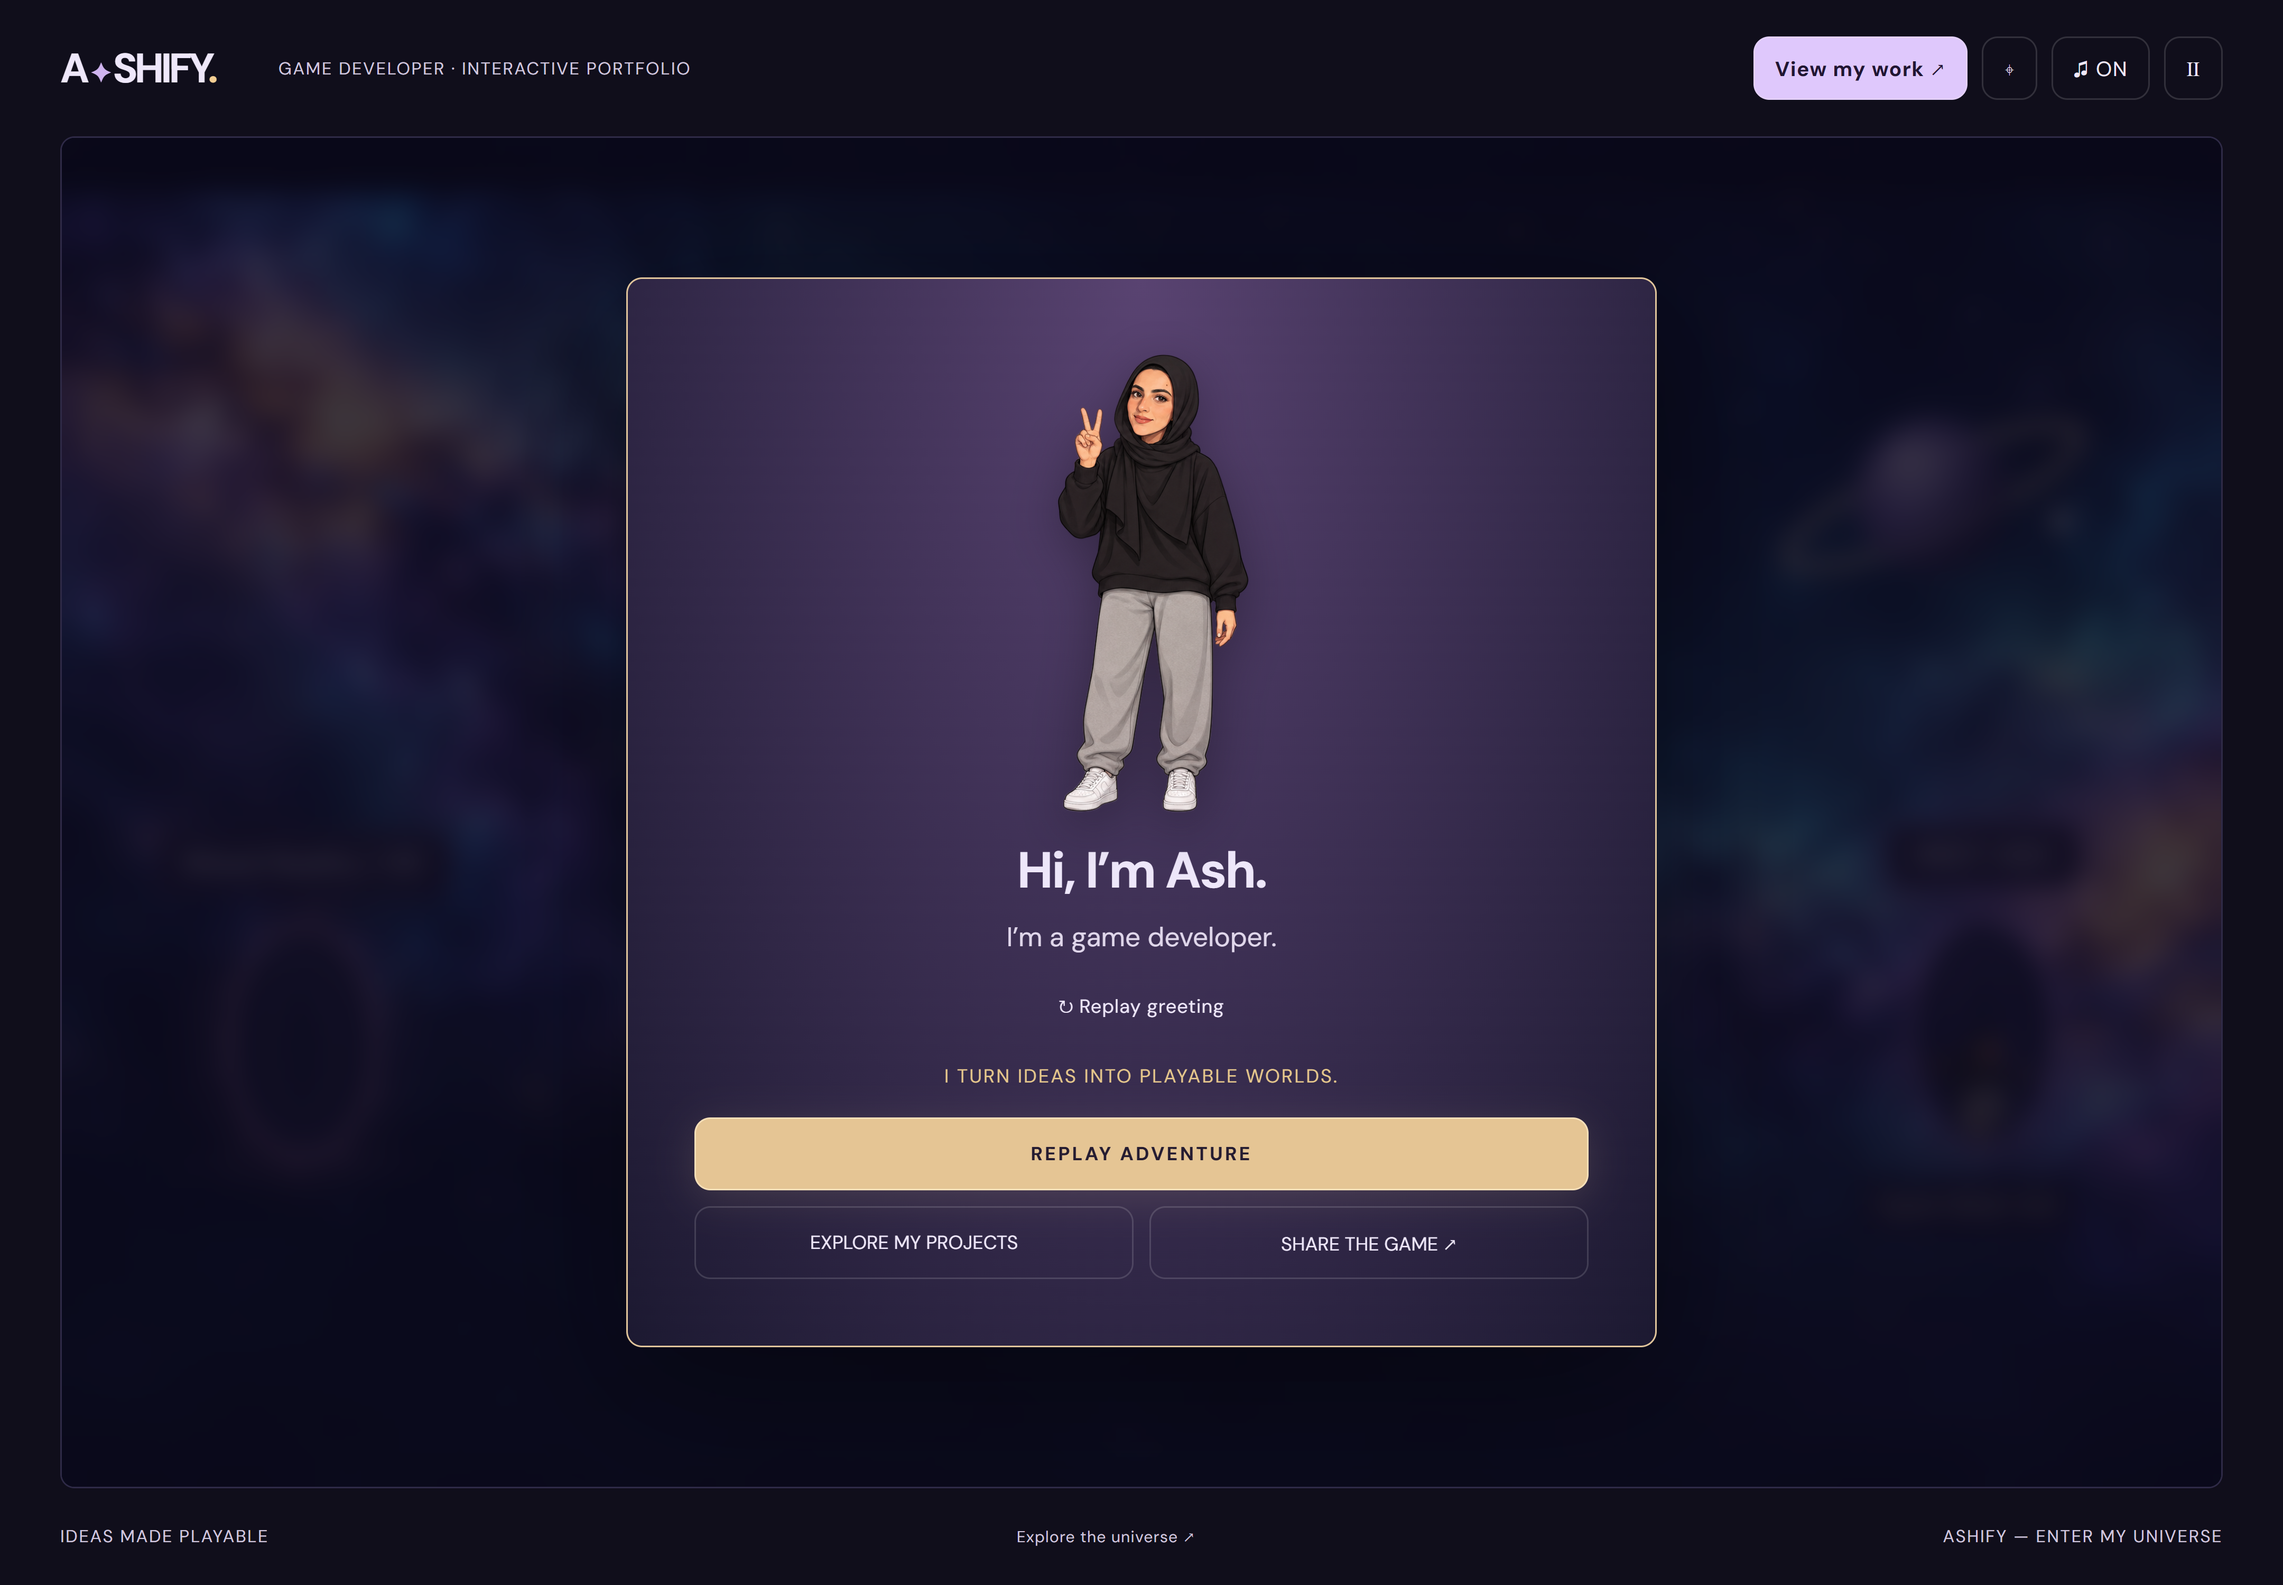
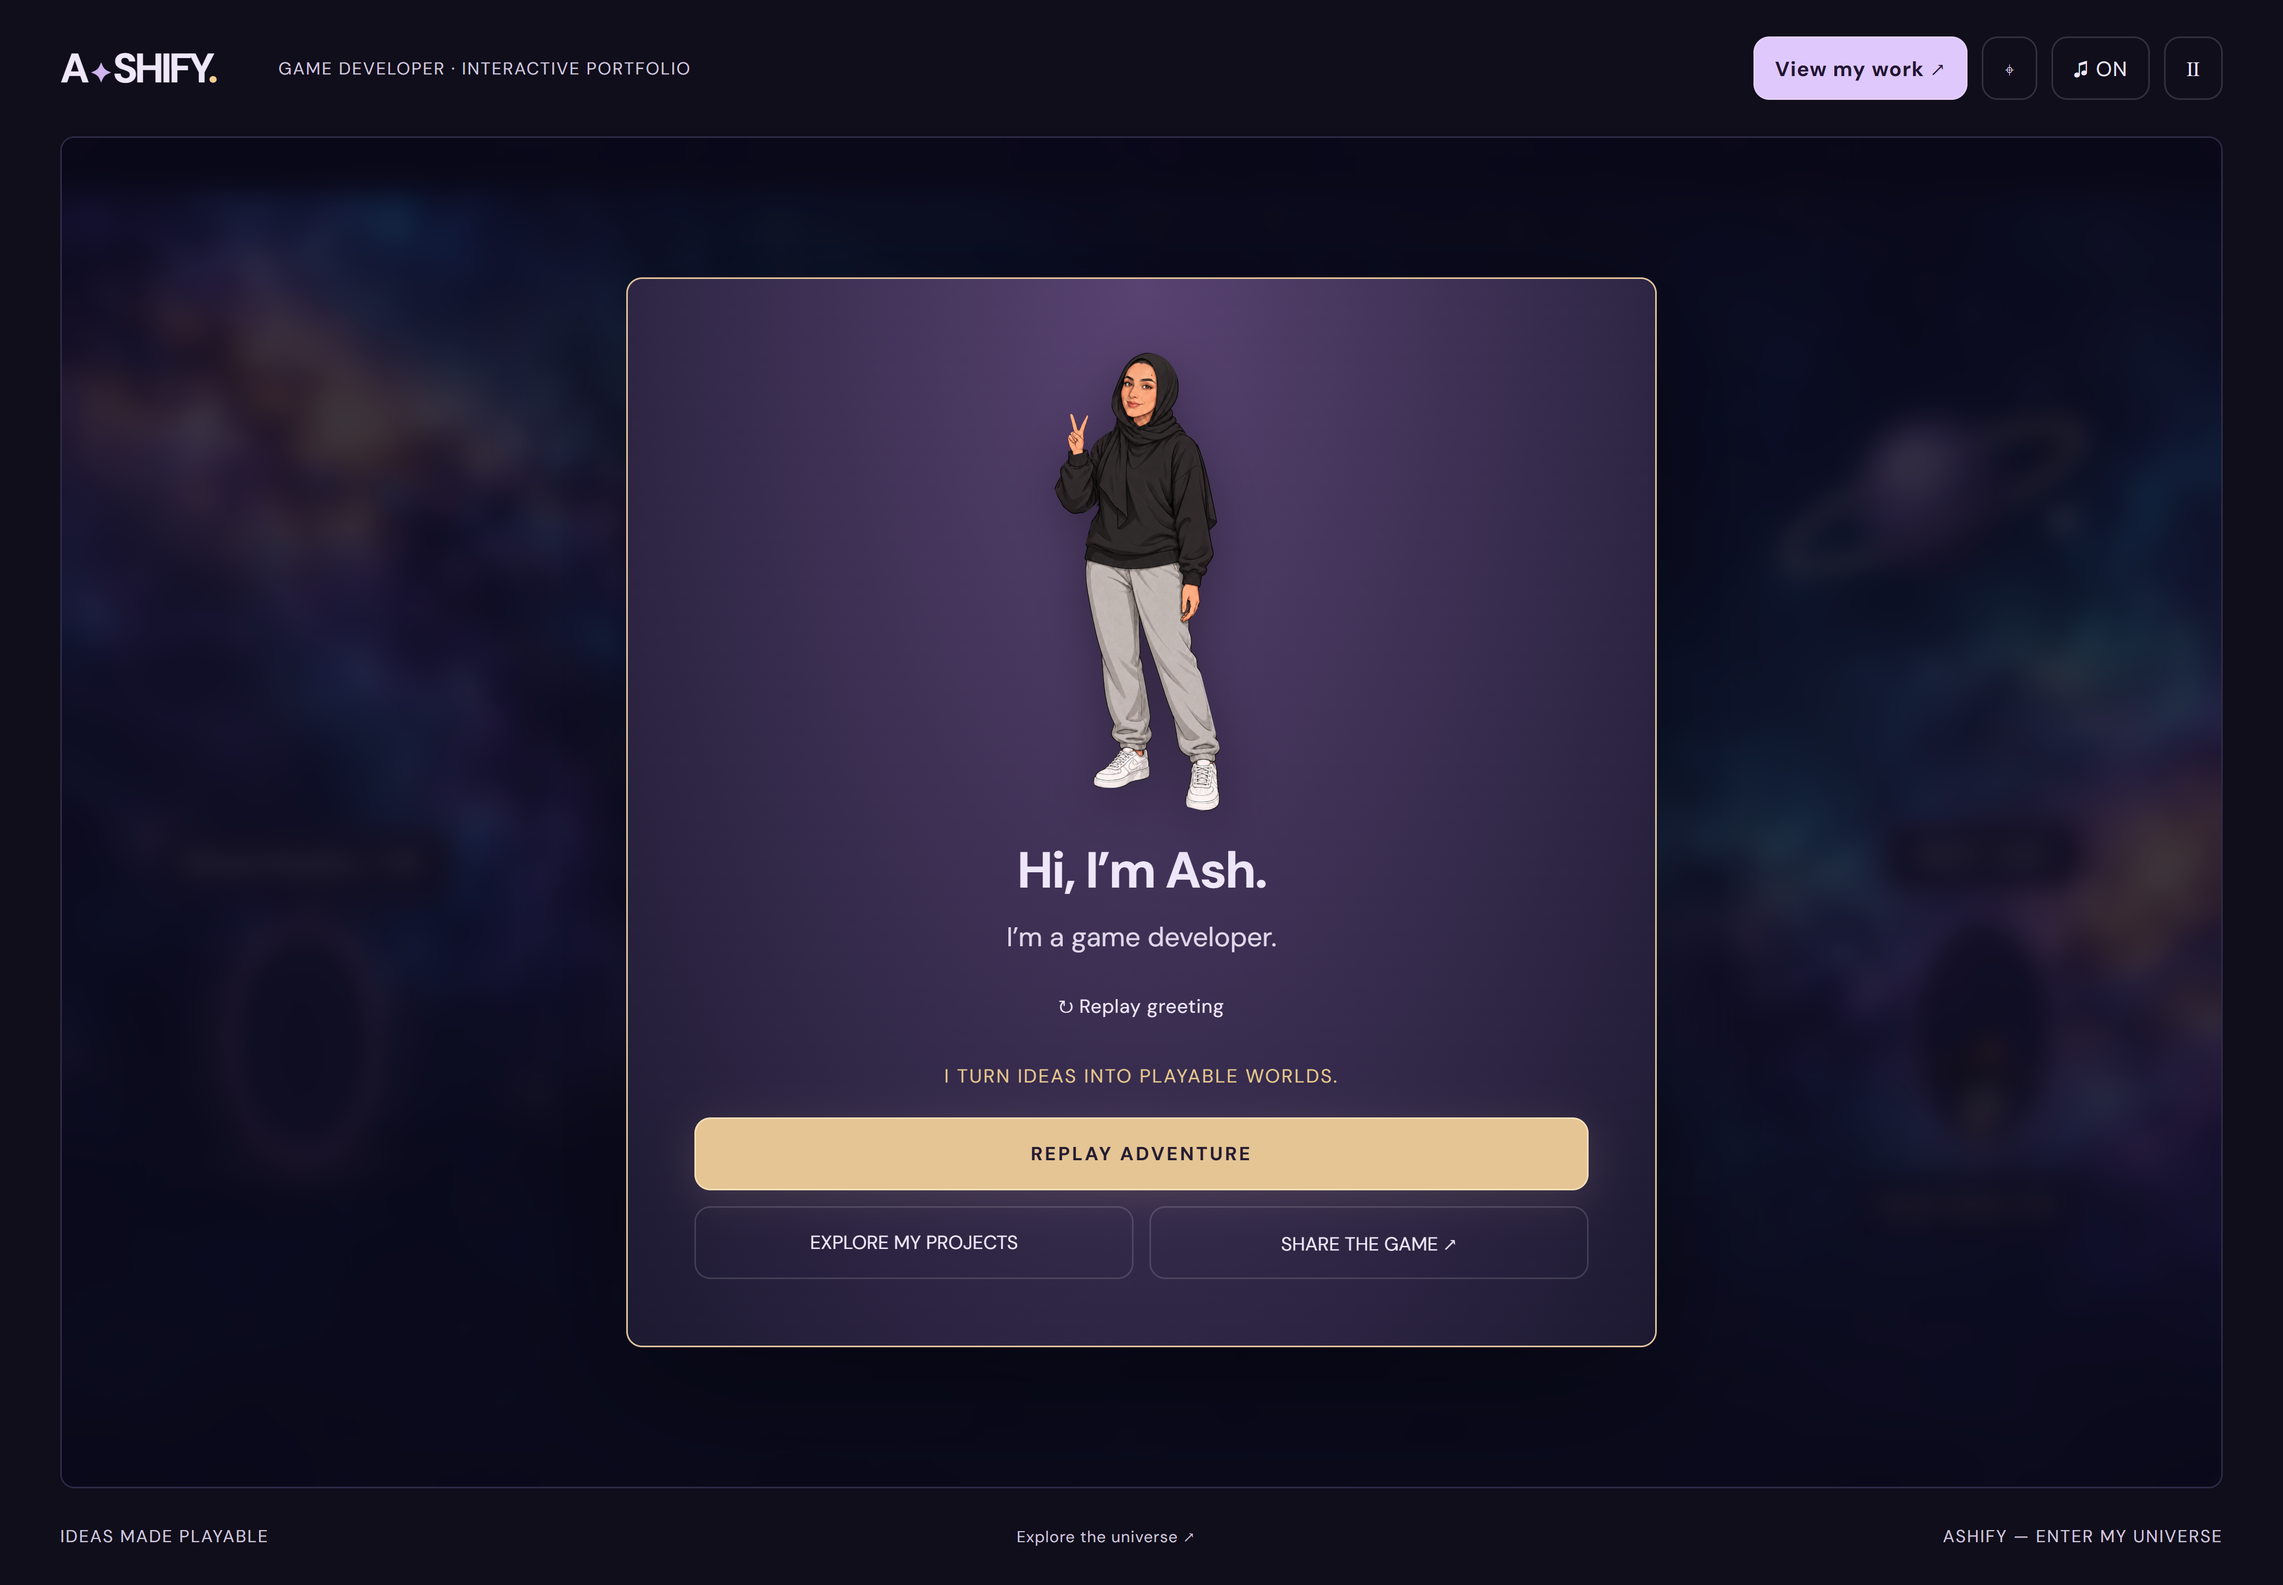
5

Changed region(s): [[0.4688, 0.217, 0.5625, 0.527]]

diff --git a/src/GreetingRig.tsx b/src/GreetingRig.tsx
@@ -1,0 +1,17 @@
+import { assetUrl } from './data/assets';
+export function GreetingRig({ winking }: { winking: boolean }) {
+ const base=assetUrl('assets/character/ash-approved-rig.png');
+ return <svg className="greeting-rig" viewBox="0 0 1024 1536" aria-hidden="true">
+ <defs>
+ <clipPath id="ash-body-cut"><path d="M275 342Q300 328 338 337L345 360Q350 305 420 274L430 250Q401 214 428 128Q449 24 518 23Q619 20 635 139L625 240 660 290Q713 320 730 416L756 569 750 738 702 775 700 838 668 891 681 972 724 1140 768 1316 763 1384Q788 1498 725 1506L660 1490 650 1460 657 1355 631 1309 614 1243 564 1110 545 1010 544 1266 538 1317 539 1391Q472 1439 364 1427L355 1401 376 1368 415 1310 403 1270 371 1120 340 960 330 710 326 664 355 549 376 498Q302 587 249 511L230 459 241 407 275 367Z"/></clipPath>
+ <clipPath id="ash-wave-cut"><path d="M175 261 166 241 142 220 104 146Q98 130 108 130L148 177 124 104Q117 88 128 88L170 156 142 88Q137 72 148 73L190 150 181 86Q180 70 190 73L214 149 222 176 239 138Q249 124 256 131L245 171 231 207 219 241 221 251Z"/></clipPath>
+ <clipPath id="ash-v-cut"><path d="M850 250 851 222 844 191 846 161 828 91Q821 74 832 77L869 144 895 83Q902 64 911 74L894 153Q912 155 916 174L925 190 917 221 897 261Z"/></clipPath>
+ <clipPath id="ash-eye-cut"><ellipse cx="530" cy="134" rx="29" ry="16"/></clipPath>
+ </defs>
+ <image className="rig-body" href={base} width="1024" height="1536" clipPath="url(#ash-body-cut)"/>
+ <g className="rig-wave"><g transform="translate(182 171) scale(.7)"><image href={base} width="1024" height="1536" clipPath="url(#ash-wave-cut)"/></g></g>
+ {/* Mirror only the victory hand around its wrist; keep the sleeve and shoulder fixed. */}
+ <g className="rig-v" transform="translate(919 171) scale(-.7 .7)"><image href={base} width="1024" height="1536" clipPath="url(#ash-v-cut)"/></g>
+ <image className={`ash-wink ${winking?'active':''}`} href={assetUrl('assets/character/ash-approved-rig-wink.png')} width="1024" height="1536" clipPath="url(#ash-eye-cut)"/>
+ </svg>;
+}

diff --git a/src/TalkingAsh.tsx b/src/TalkingAsh.tsx
@@ -1,5 +1,5 @@
 import { useEffect, useState, type CSSProperties } from 'react';
-import { assetUrl } from './data/assets';
+import { GreetingRig } from './GreetingRig';
 const greeting = 'Hi, I’m Ash. I’m a game developer.';
 export function TalkingAsh() {
   const [letters, setLetters] = useState(0),
@@ -22,17 +22,8 @@ export function TalkingAsh() {
         className={`talking-portrait fullbody-portrait ${letters < greeting.length ? 'is-waving' : 'is-victory'}`}
         role="img"
         aria-label="Ash greeting you"
-        style={{
-          backgroundImage: `url(${assetUrl('assets/character/ash-fullbody-greeting.png')})`,
-        }}
       >
-        <div className="talking-body" />
-        <div className="greeting-hand" aria-hidden="true" />
-        <div
-          className={`ash-wink ${winking ? 'active' : ''}`}
-          aria-hidden="true"
-          style={{ backgroundImage: `url(${assetUrl('assets/character/ash-fullbody-greeting.png')})` }}
-        />
+        <div className="talking-body"><GreetingRig winking={winking} /></div>
         {winking && (
           <div className="wink-stars" aria-hidden="true">
             {Array.from({ length: 7 }, (_, i) => (
@@ -62,3 +53,4 @@ export function TalkingAsh() {
     </div>
   );
 }
+

diff --git a/src/styles/global.css b/src/styles/global.css
@@ -1877,3 +1877,16 @@ h1 {
 .action-content:has(.action-caption) .action-icon { width: 23px; height: 23px; }
 .action-caption { font-size: 11px; line-height: 1; font-weight: 600; letter-spacing: 0; }
 .action-word { font-size: 13px; line-height: 1; font-weight: 700; letter-spacing: .5px; }
+/* Independent hand cutouts: body and shoulder never participate in hand transforms. */
+.final-panel .fullbody-portrait { width: 200px; height: 300px; margin-left: 0; }
+.fullbody-portrait .talking-body { clip-path: none; background: none; }
+.greeting-rig { width:100%; height:100%; overflow:visible; }
+.greeting-rig .ash-wink { mask-image:none; }
+.rig-wave { transform-origin: 308px 348px; }
+.is-waving .rig-wave { animation: rig-wave 900ms ease-in-out infinite; }
+.rig-v, .is-victory .rig-wave { display:none; }
+.is-victory .rig-v { display:block; }
+.fullbody-portrait .wink-stars { left:51.8%; top:8.7%; }
+@keyframes rig-wave { 0%,100% { transform:rotate(-5deg); } 50% { transform:rotate(5deg); } }
+@media(max-height:740px) { .final-panel .fullbody-portrait {width:160px;height:240px;margin-left:0;} }
+@media(prefers-reduced-motion:reduce) {.is-waving .rig-wave {animation:none;} }

diff --git a/tests/game.spec.ts b/tests/game.spec.ts
@@ -308,7 +308,7 @@ test.describe('portrait polish', () => {
     await expect(page.locator('.talking-portrait')).toHaveClass(/is-waving/);
     await page.screenshot({ path: 'design/ash-fullbody-wave.png' });
     await expect(page.locator('.talking-body')).toHaveCSS('transform', 'none');
-    await expect(page.locator('.talking-body')).toHaveCSS('background-position', '0px 0px');
+    await expect(page.locator('.rig-body')).toHaveCSS('transform', 'none');
     await expect(page.locator('.talking-mouth')).toHaveCount(0);
     await expect(page.locator('.talking-portrait')).toHaveCSS('transform', 'none');
     await expect(page.locator('.talking-body')).toHaveCSS('transform', 'none');
@@ -368,4 +368,5 @@ test('action icon follows nearby hobbies and portals', async ({ page }) => {
   await expect(page.locator('.action-icon')).toHaveAttribute('data-action','Portal');
   await page.screenshot({path:'design/context-action-icons.png'});
 });
+
 

diff --git a/design/approved-greeting-rig.md b/design/approved-greeting-rig.md
@@ -1,0 +1,5 @@
+# Approved likeness replacement
+Source: user-approved exec-62dc6f64-e968-4ddd-9c6f-6682a3a59525.png.
+Built-in imagegen prepared matching body and detached wave/V hands (ash-approved-rig.png), then a matching wink (ash-approved-rig-wink.png).
+Prompt: preserve approved facial likeness, body proportions, black hijab/sweatshirt, grey sweatpants and sneakers. Separate only skin above wrist cuff; preserve full sleeve and shoulder. Additional edit: close only viewer-right eye.
+GreetingRig.tsx clips the three sprite parts independently using SVG; the full shoulder is static. Only the detached waving hand rotates at the cuff. No mouth motion. V hand and wink stars retain previous sequence.
